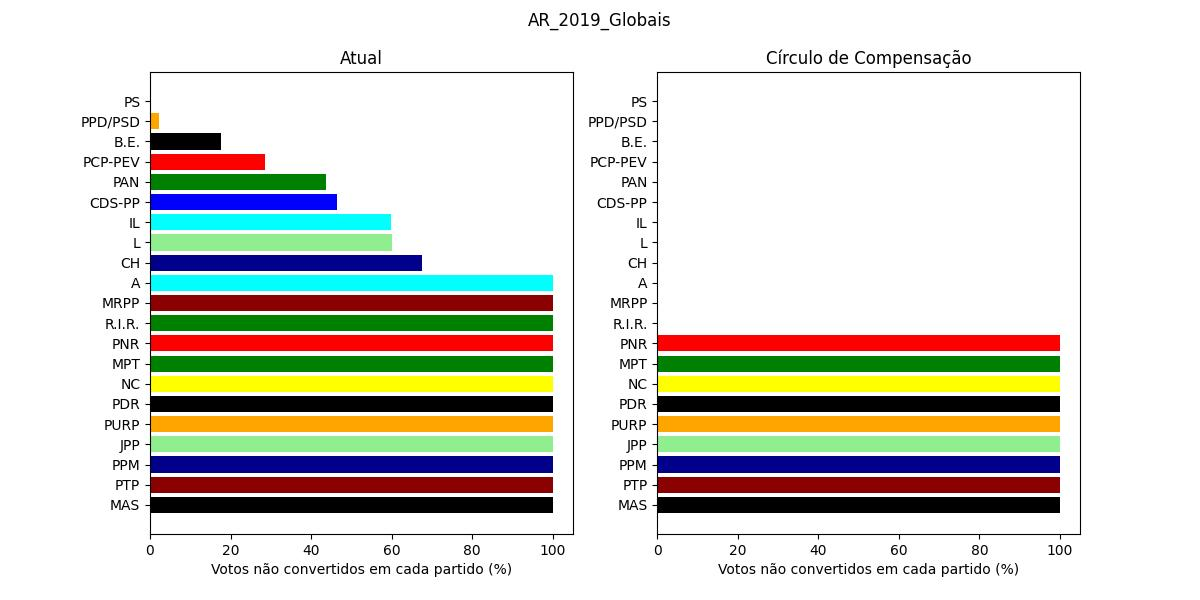
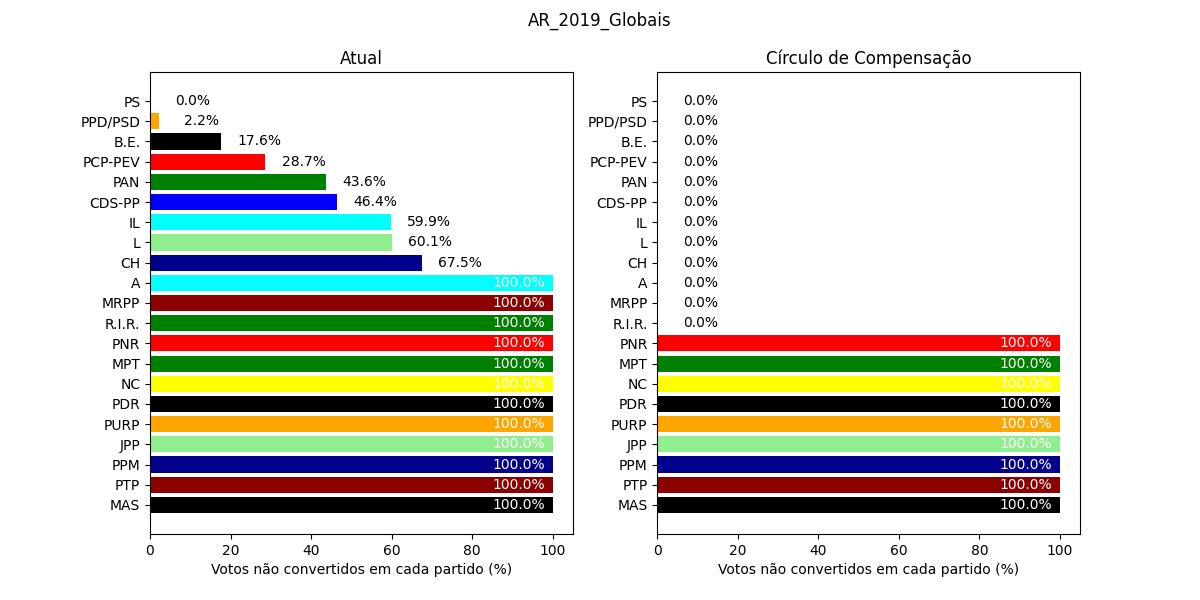
this is my final form

diff --git a/script_final.py b/script_final.py
@@ -34,6 +34,7 @@ mapping_distritos = {'Castelo Branco':'C. Branco',
 cores = ['black', 'black', 'darkred', 'darkred', 'red', 'darkred', 'lightgreen', 'pink', 'lightgreen', 'green', 'orange', 'purple',  'green', 'orange', 'green', 'yellow', 'darkblue', 'green', 'blue', 'black', 'orange', 'cyan', 'cyan', 'blue', 'darkblue', 'red', 'darkblue', 'yellow', 'red']
 df_cores = pd.DataFrame(cores, ordem_partidos, columns = ['cor'])
 
+
 # Limpar dados base
 def obter_base(path, ano):
     sheet_nacional = f'AR_{ano}_Distrito_Reg.Autónoma' 
@@ -319,14 +320,28 @@ def plot_comparacao(df_votos, df_simulacao, df_perdidos, df_mandatos, df_reduzid
     # Votos que não serviram para eleger por partido
 
     fig, axs = plt.subplots(1, 2, figsize=(12, 6))
-    df_merge_votos.sort_values(['%votos_nao_convertidos', 'votos'], ascending = [False, True], inplace = True)
+    df_merge_votos.sort_values(['%votos_nao_convertidos', 'votos'], ascending=[False, True], inplace=True)
     hbar_colors = cores_usar.reindex(df_merge_votos.index.values)
-    axs[0].barh(df_merge_votos.index, df_merge_votos['%votos_nao_convertidos'], color = hbar_colors)
-    axs[0].set_xlabel('Votos não convertidos em cada partido (%)')
-    axs[0].set_title('Atual')
-    axs[1].barh(df_merge_votos.index, df_merge_votos['%votos_nao_convertidos_cc'], color = hbar_colors)
-    axs[1].set_xlabel('Votos não convertidos em cada partido (%)')
-    axs[1].set_title('Círculo de Compensação')
+
+    # Define the columns and titles to iterate over
+    columns = ['%votos_nao_convertidos', '%votos_nao_convertidos_cc']
+    titles = ['Atual', 'Círculo de Compensação']
+
+    # Iterate over the columns and titles to create the subplots
+    for i, (col, title) in enumerate(zip(columns, titles)):
+        bars = axs[i].barh(df_merge_votos.index, df_merge_votos[col], color=hbar_colors)
+        axs[i].set_xlabel('Votos não convertidos em cada partido (%)')
+        axs[i].set_title(title)
+
+        # Add percentage labels to bars
+        for bar in bars:
+            width = bar.get_width()
+            label_x_pos = width if width <= 50 else width - 5  # Adjust the offset as needed
+            label_color = 'black' if width <= 50 else 'white'
+            axs[i].text(label_x_pos, bar.get_y() + bar.get_height()/2, f'{width:.1f}%', 
+                        color=label_color, va='center', ha='right' if width <= 50 else 'left')
+
+
     fig.suptitle(eleicao)
     fig.savefig(f'plots\\votos_nao_convertidos_{eleicao}_cc_{lista_tamanhos_cc[0]}.jpg')
 
@@ -335,13 +350,25 @@ def plot_comparacao(df_votos, df_simulacao, df_perdidos, df_mandatos, df_reduzid
 
     fig, axs = plt.subplots(1, 2, figsize=(12, 6))
     df_merge_votos.sort_values(['votos_por_deputado', 'votos'], ascending = [False, True], inplace = True)
-    hbar_colors = cores_usar.reindex(df_merge_votos.index.values)
-    axs[0].barh(df_merge_votos.index, df_merge_votos['votos_por_deputado'], color = hbar_colors)
-    axs[0].set_xlabel('Votos necessários para eleger um deputado')
-    axs[0].set_title('Atual')
-    axs[1].barh(df_merge_votos.index, df_merge_votos['votos_por_deputado_cc'], color = hbar_colors)
-    axs[1].set_xlabel('Votos necessários para eleger um deputado')
-    axs[1].set_title('Círculo de Compensação')
+
+    # Define the columns and titles to iterate over
+    columns = ['votos_por_deputado', 'votos_por_deputado_cc']
+
+    # Iterate over the columns and titles to create the subplots
+    for i, (col, title) in enumerate(zip(columns, titles)):
+        bars = axs[i].barh(df_merge_votos.index, df_merge_votos[col], color=hbar_colors)
+        axs[i].set_xlabel('Votos necessários para eleger um deputado')
+        axs[i].set_title(title)
+
+        # Add labels with thousands separator to bars
+        for bar in bars:
+            width = bar.get_width()
+            label_x_pos = width if width <= 0.5 * axs[i].get_xlim()[1] else width - 0.05 * axs[i].get_xlim()[1]  # Adjust the offset as needed
+            label_color = 'black' if width <= 0.5 * axs[i].get_xlim()[1] else 'white'
+            axs[i].text(label_x_pos, bar.get_y() + bar.get_height()/2, f'{width:,.0f}', 
+                        color=label_color, va='center', ha='right' if width <= 0.5 * axs[i].get_xlim()[1] else 'left')
+
+
     fig.suptitle(eleicao)
     fig.savefig(f'plots\\votos_por_deputado_{eleicao}_cc_{lista_tamanhos_cc[0]}.jpg')
 
@@ -397,15 +424,29 @@ def plot_comparacao(df_votos, df_simulacao, df_perdidos, df_mandatos, df_reduzid
 
     
     # Votos perdidos por distrito
-    fig, axs = plt.subplots(1, 2, figsize=(12, 6))
     df_distritos = df_distritos[~df_distritos.index.isin(['Compensação'])]
     df_distritos.rename(index = mapping_distritos, inplace = True)
-    axs[0].barh(df_distritos.index, df_distritos['votos_perdidos'])
-    axs[0].set_xlabel('Votos perdidos por distrito')
-    axs[0].set_title('Atual')
-    axs[1].barh(df_distritos.index, df_distritos['votos_perdidos_cc'])
-    axs[1].set_xlabel('Votos perdidos por distrito')
-    axs[1].set_title('Círculo de Compensação')
+
+    fig, axs = plt.subplots(1, 2, figsize=(12, 6))
+
+    # Define the columns and titles to iterate over
+    columns = ['votos_perdidos', 'votos_perdidos_cc']
+
+    # Iterate over the columns and titles to create the subplots
+    for i, (col, title) in enumerate(zip(columns, titles)):
+        bars = axs[i].barh(df_distritos.index, df_distritos[col])
+        axs[i].set_xlabel('Votos perdidos por distrito')
+        axs[i].set_title(title)
+            
+        # Add labels with 'k' format to bars
+        for bar in bars:
+            width = bar.get_width()
+            label_x_pos = width if width <= 0.5 * axs[i].get_xlim()[1] else width - 0.05 * axs[i].get_xlim()[1]  # Adjust the offset as needed
+            label_color = 'black' if width <= 0.5 * axs[i].get_xlim()[1] else 'white'
+            axs[i].text(label_x_pos, bar.get_y() + bar.get_height()/2, f'{width/1000:.0f}k', 
+                        color=label_color, va='center', ha='right' if width <= 0.5 * axs[i].get_xlim()[1] else 'left')
+
+
     xlim = np.ceil(np.max(df_distritos['votos_perdidos'])/10000)*10000
     plt.setp(axs[0], xlim=(0,xlim))
     plt.setp(axs[1], xlim=(0,xlim))
@@ -417,6 +458,7 @@ def plot_comparacao(df_votos, df_simulacao, df_perdidos, df_mandatos, df_reduzid
     df_distritos.to_csv(f'simulacoes\\votos_perdidos_distrito_{eleicao}_cc_{lista_tamanhos_cc[0]}_mandatos.csv')
 
     return 0
+
 
 # Simular resultados de uma eleição dada uma lista de tamanhos de círculo de compensação
 def simular_eleicao(df_mandatos, df_votos, lista_tamanhos_cc, tamanho_circulo_minimo, eleicao, incluir_estrangeiros):
@@ -440,9 +482,11 @@ def simular_eleicao(df_mandatos, df_votos, lista_tamanhos_cc, tamanho_circulo_mi
 
     return df_perdidos
 
+
 # Convert numbers to 'k' format
 def format_k(x):
     return f"{x/1000:.0f}k" if x >= 1000 else str(x)
+
 
 # Simular todas as eleicoes
 def main(eleicoes, tamanho_circulo_minimo, lista_tamanhos_cc = range(0, 231), incluir_estrangeiros = True):
@@ -504,10 +548,8 @@ lista_tamanhos_cc = [40]
 
 # Listar eleições a simular
 eleicoes = os.listdir('eleicoes')
-eleicoes.pop(5)
+#eleicoes.pop(5)
 #eleicoes = []
 
 if __name__ == "__main__":
    main(eleicoes, tamanho_circulo_minimo, lista_tamanhos_cc, incluir_estrangeiros)
-
-
